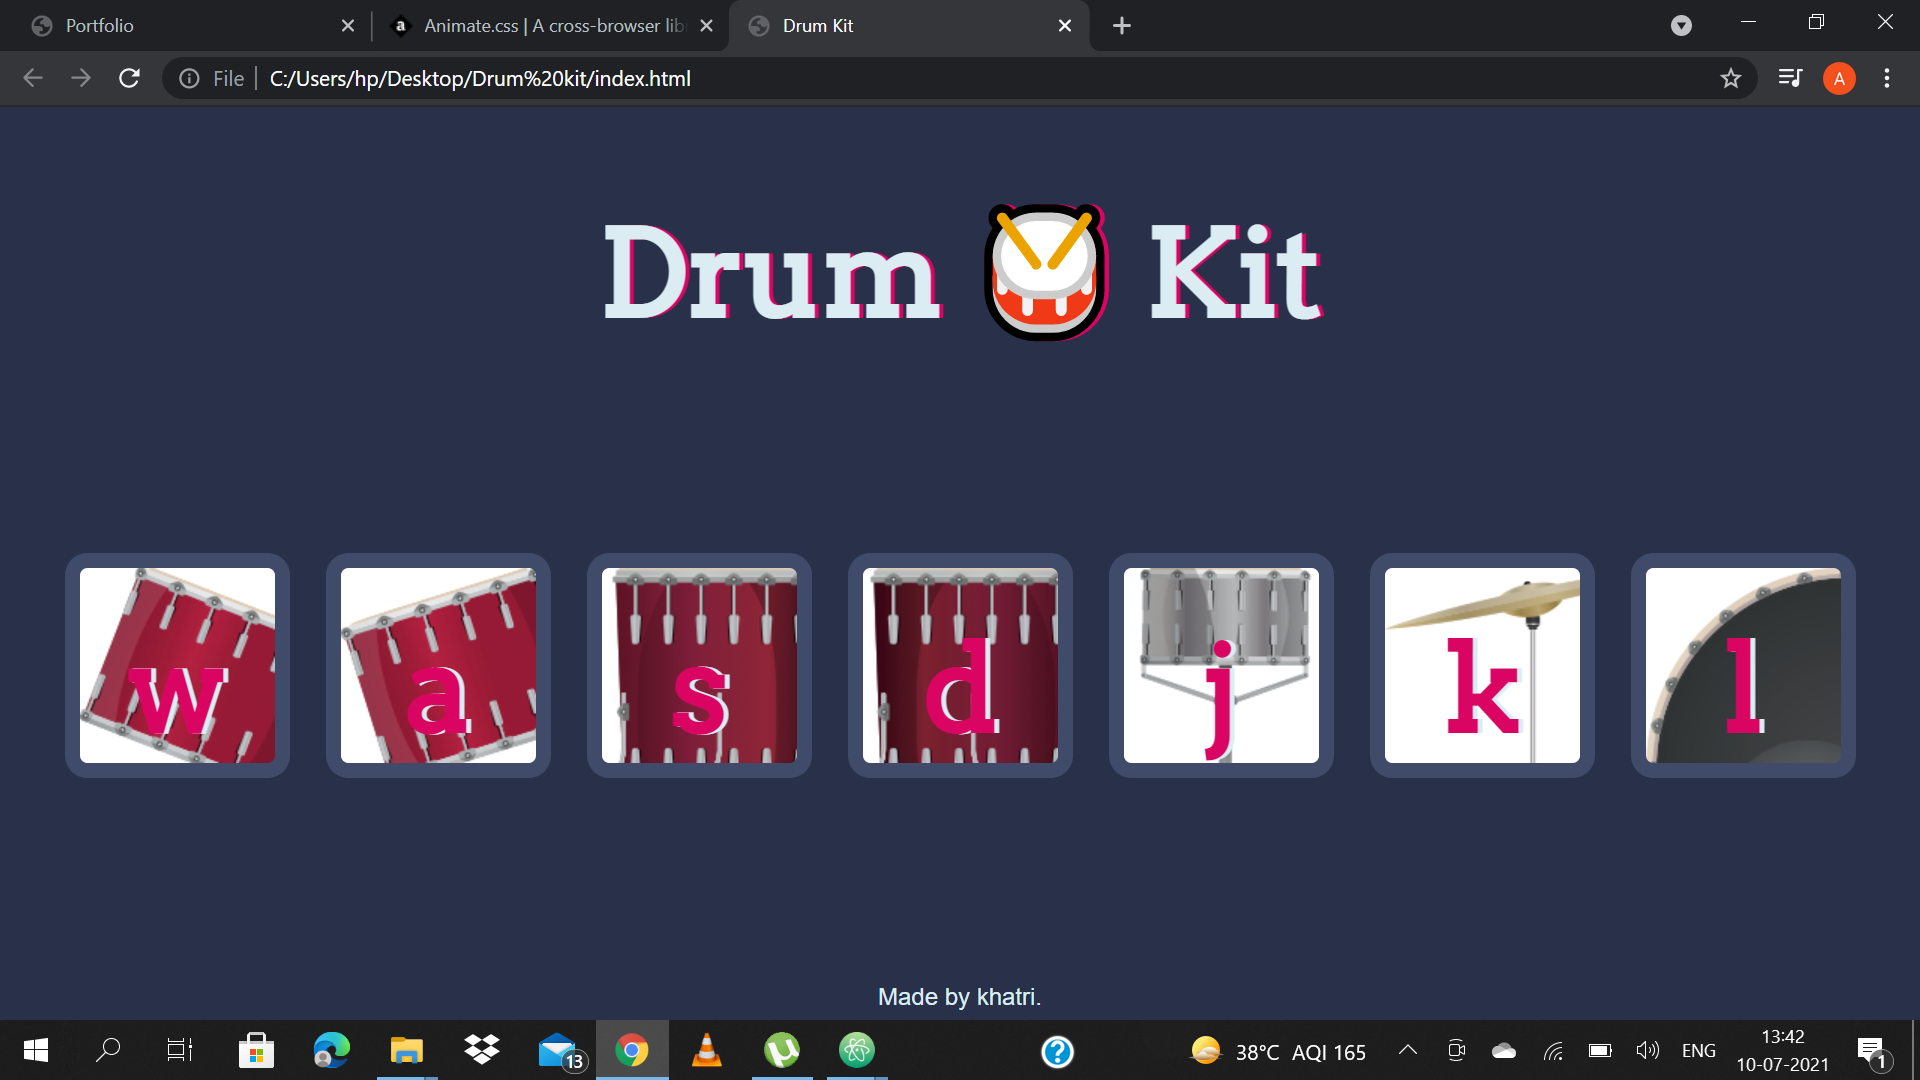
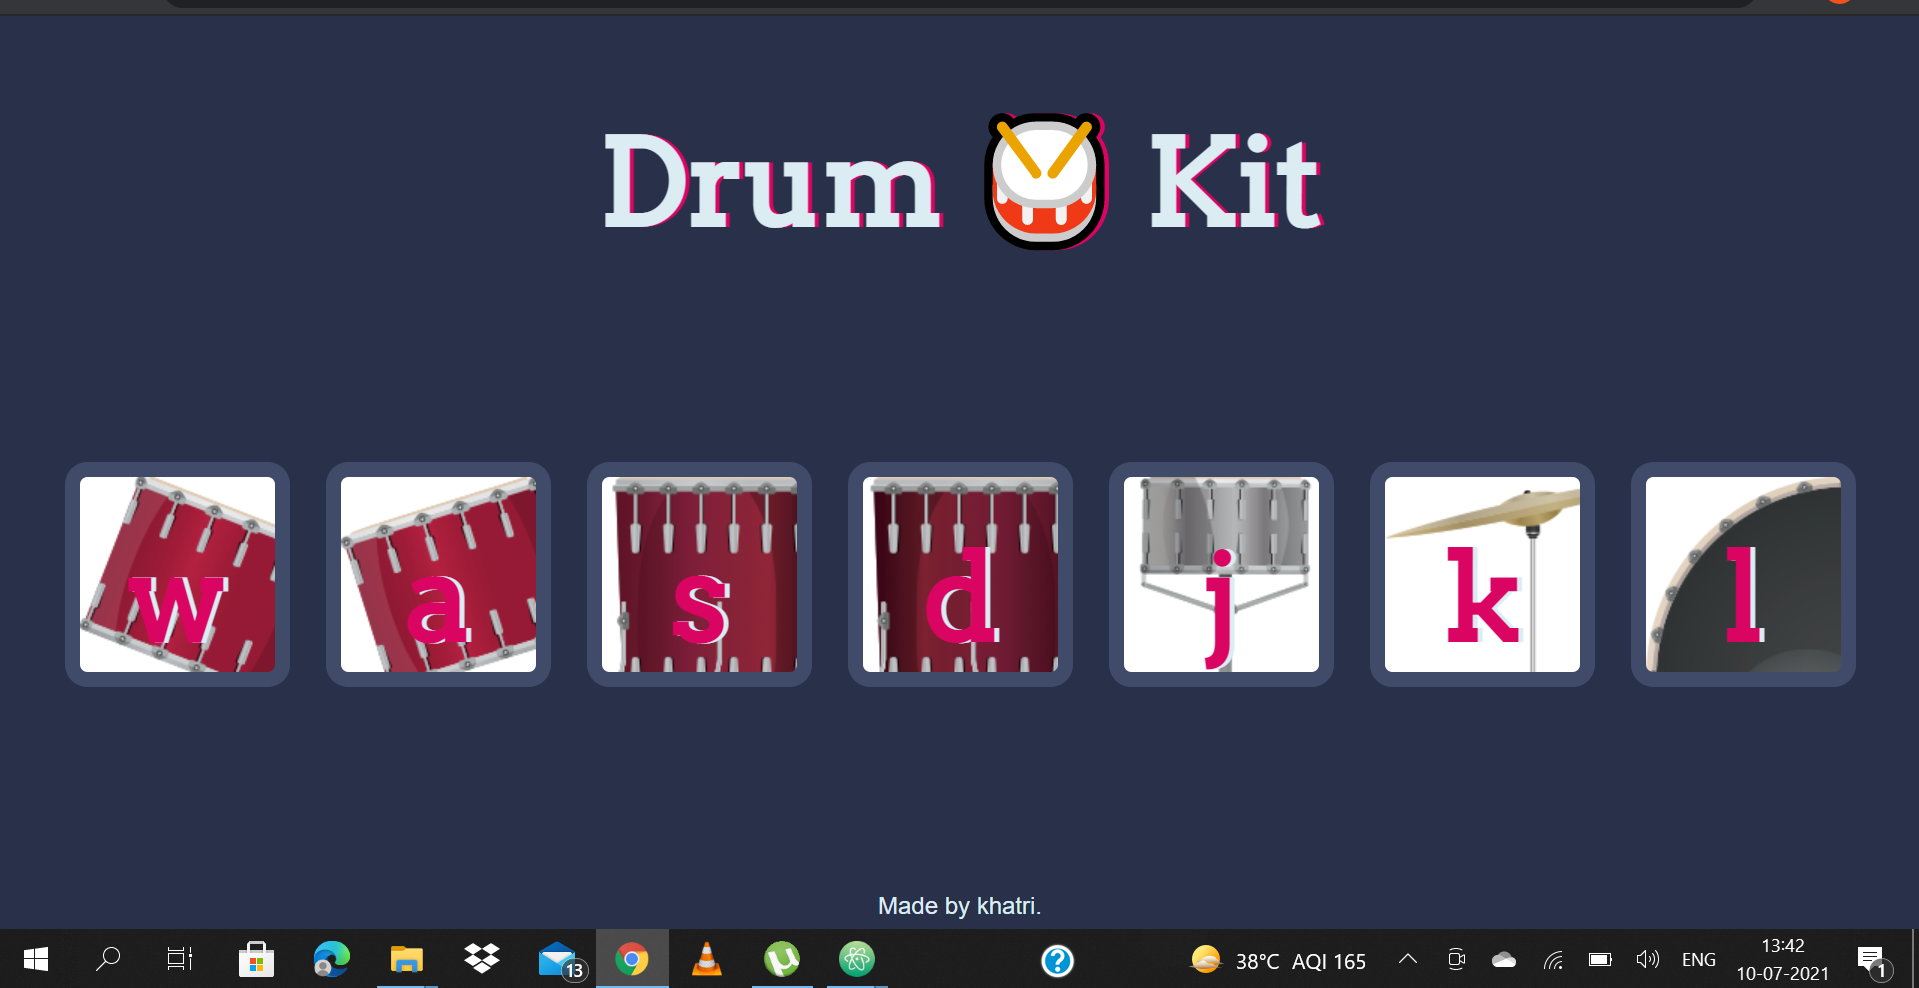
new commit

diff --git a/style.css b/style.css
@@ -186,6 +186,10 @@ h5{
    padding-right: 30px;
  }
 
+ .row>*{
+   margin-top: 50px;
+ }
+
 }
 
 #footer{
